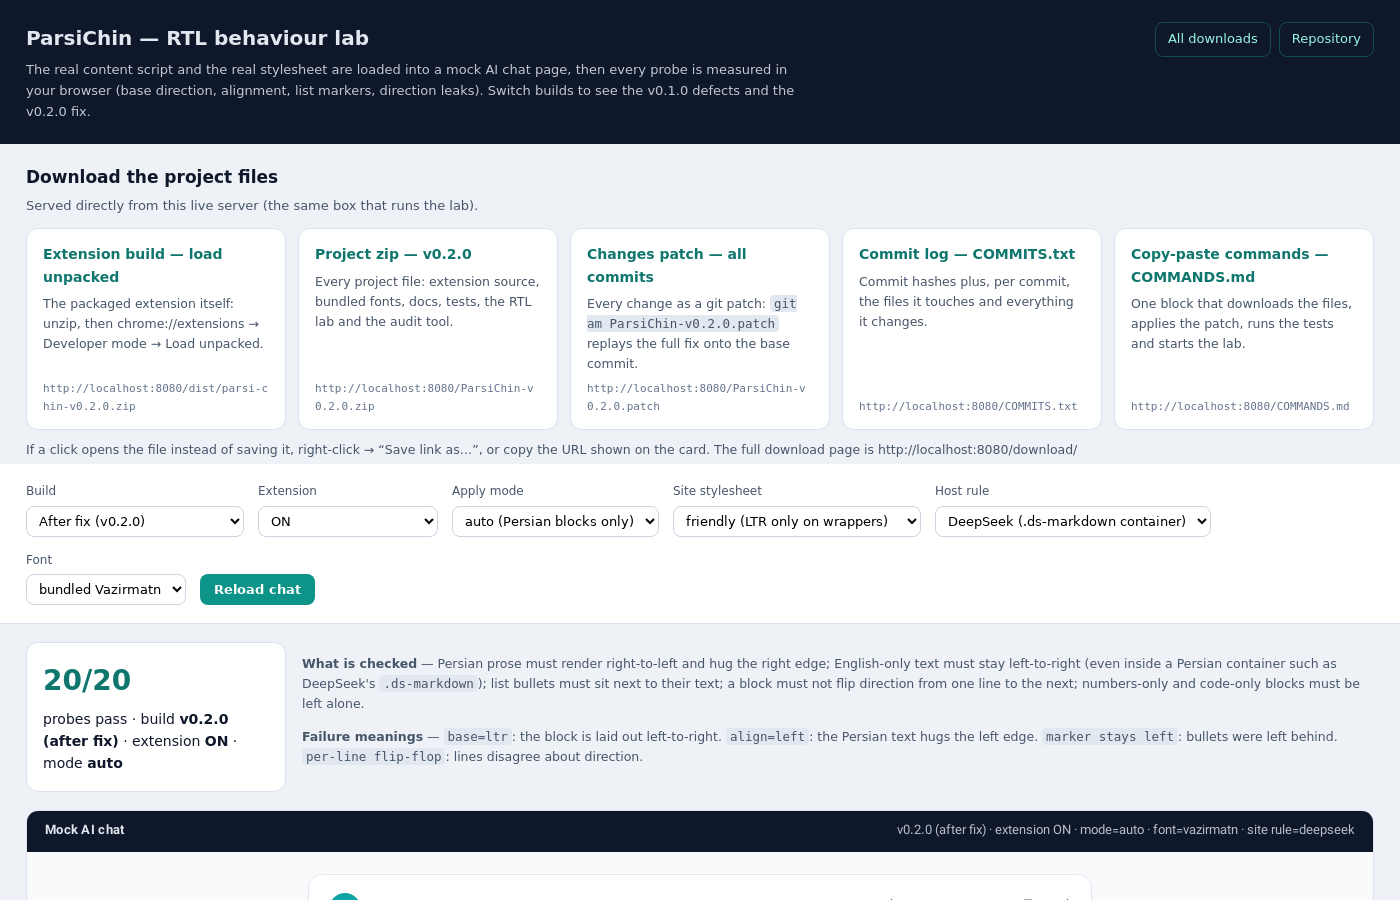
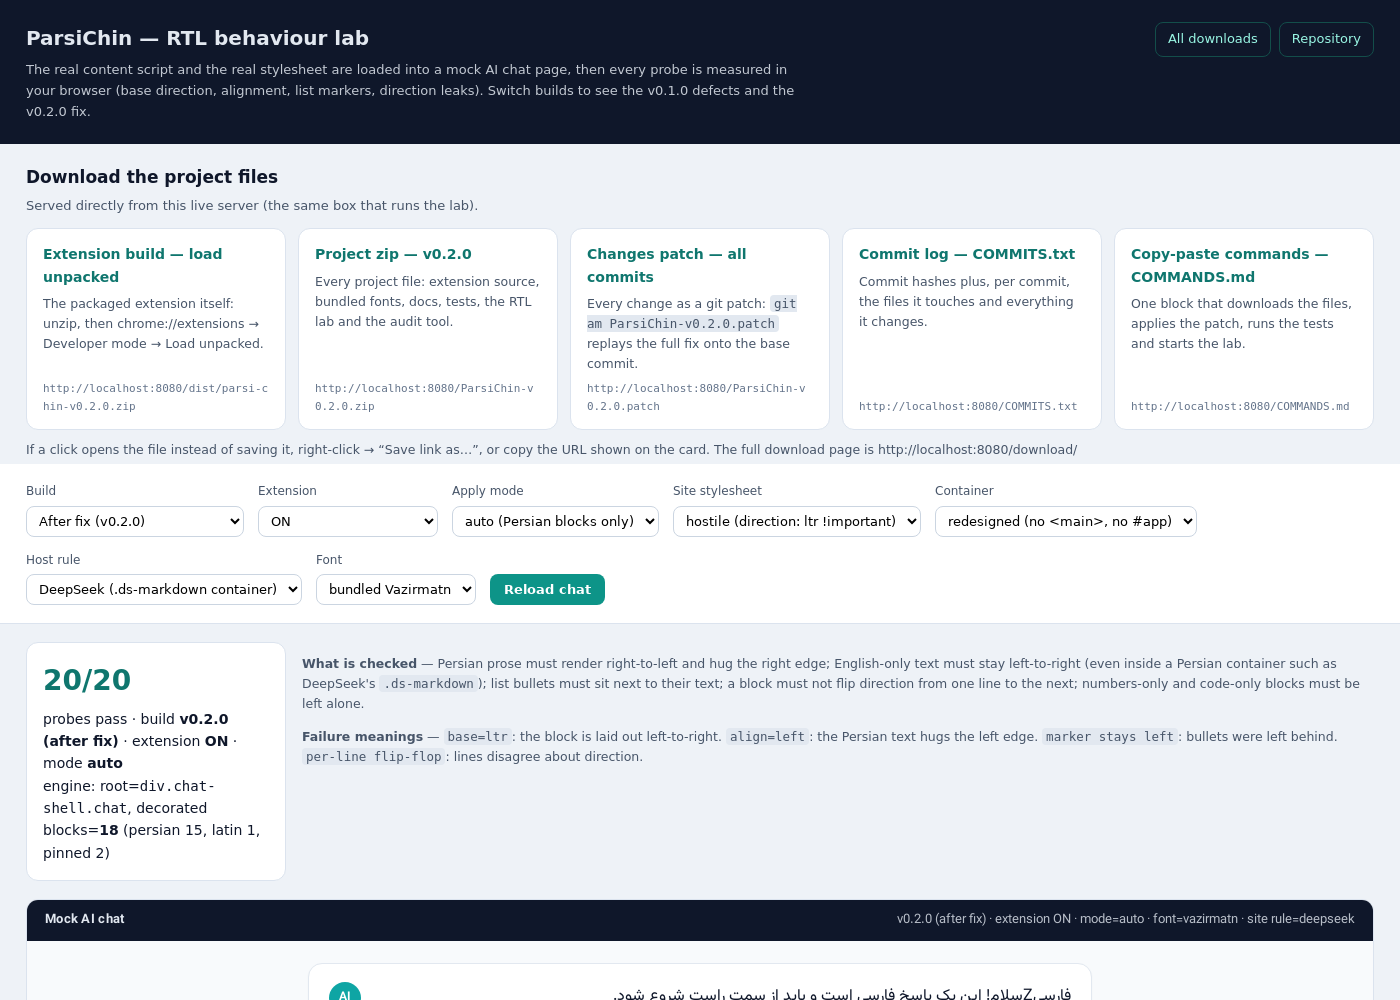
feat(demo): no-main switch

diff --git a/demo/chat-boot.js b/demo/chat-boot.js
@@ -19,6 +19,22 @@
   const applyMode = params.get("mode") === "always" ? "always" : "auto";
   const fontFamily = params.get("font") === "system" ? "system" : "vazirmatn";
   const site = params.get("site") === "deepseek" ? "deepseek" : "chatgpt";
+  const noRoot = params.get("noroot") === "1";
+
+  /**
+   * Simulate a redesigned chat UI: same look, but <main> and #app are gone, so
+   * the per-site rule's scan root does not match and the extension has to fall
+   * back (this is the case that broke on the real DeepSeek).
+   */
+  if (noRoot) {
+    const main = document.querySelector("main.chat");
+    if (main) {
+      const shell = document.createElement("div");
+      shell.className = "chat-shell chat";
+      while (main.firstChild) shell.appendChild(main.firstChild);
+      main.parentNode.replaceChild(shell, main);
+    }
+  }
 
   document.getElementById("meta").textContent =
     `${engine === "before" ? "v0.1.0 (before fix)" : "v0.2.0 (after fix)"} · ` +
@@ -216,7 +232,13 @@
       row.verdict = problems.length ? "FAIL — " + problems.join("; ") : "pass";
       return row;
     });
-    window.parent.postMessage({ type: "parsichin-lab", engine, extOn, applyMode, site, rows }, "*");
+    const engineStats = (window.ParsiChin && window.ParsiChin.report)
+      ? window.ParsiChin.report().stats
+      : null;
+    window.parent.postMessage(
+      { type: "parsichin-lab", engine, extOn, applyMode, site, noRoot, rows, engineStats },
+      "*"
+    );
   }
 
   window.addEventListener("error", (e) => {

diff --git a/demo/demo-lab.js b/demo/demo-lab.js
@@ -20,7 +20,8 @@
       mode: $("#mode").value,
       hostile: $("#hostile").value,
       font: $("#font").value,
-      site: $("#site").value
+      site: $("#site").value,
+      noroot: $("#container").value === "noroot" ? "1" : "0"
     });
     return "chat.html?" + params.toString();
   }
@@ -43,7 +44,11 @@
       `<span class="big ${fails.length ? "bad" : "ok"}">${total - fails.length}/${total}</span>` +
       `probes pass · build <strong>${ESC(data.engine === "before" ? "v0.1.0 (before fix)" : "v0.2.0 (after fix)")}</strong>` +
       ` · extension <strong>${data.extOn ? "ON" : "OFF"}</strong>` +
-      ` · mode <strong>${ESC(data.applyMode)}</strong>`;
+      ` · mode <strong>${ESC(data.applyMode)}</strong>` +
+      (data.engineStats
+        ? `<br>engine: root=<code>${ESC(data.engineStats.root)}</code>, decorated blocks=<strong>${data.engineStats.blocks}</strong>` +
+          ` (persian ${data.engineStats.persian}, latin ${data.engineStats.mixed}, pinned ${data.engineStats.pinnedLtr})`
+        : "");
 
     tbody.innerHTML = data.rows.map((r) => `
       <tr class="${r.verdict === "pass" ? "pass" : "fail"}">
@@ -72,7 +77,7 @@
     }
   });
 
-  ["#engine", "#ext", "#mode", "#hostile", "#font", "#site"].forEach((sel) => {
+  ["#engine", "#ext", "#mode", "#hostile", "#font", "#site", "#container"].forEach((sel) => {
     $(sel).addEventListener("change", reload);
   });
   $("#rerun").addEventListener("click", reload);

diff --git a/demo/index.html b/demo/index.html
@@ -91,6 +91,14 @@
     </label>
 
     <label>
+      <span>Container</span>
+      <select id="container">
+        <option value="normal" selected>normal (&lt;main&gt;)</option>
+        <option value="noroot">redesigned (no &lt;main&gt;, no #app)</option>
+      </select>
+    </label>
+
+    <label>
       <span>Host rule</span>
       <select id="site">
         <option value="deepseek" selected>DeepSeek (.ds-markdown container)</option>
